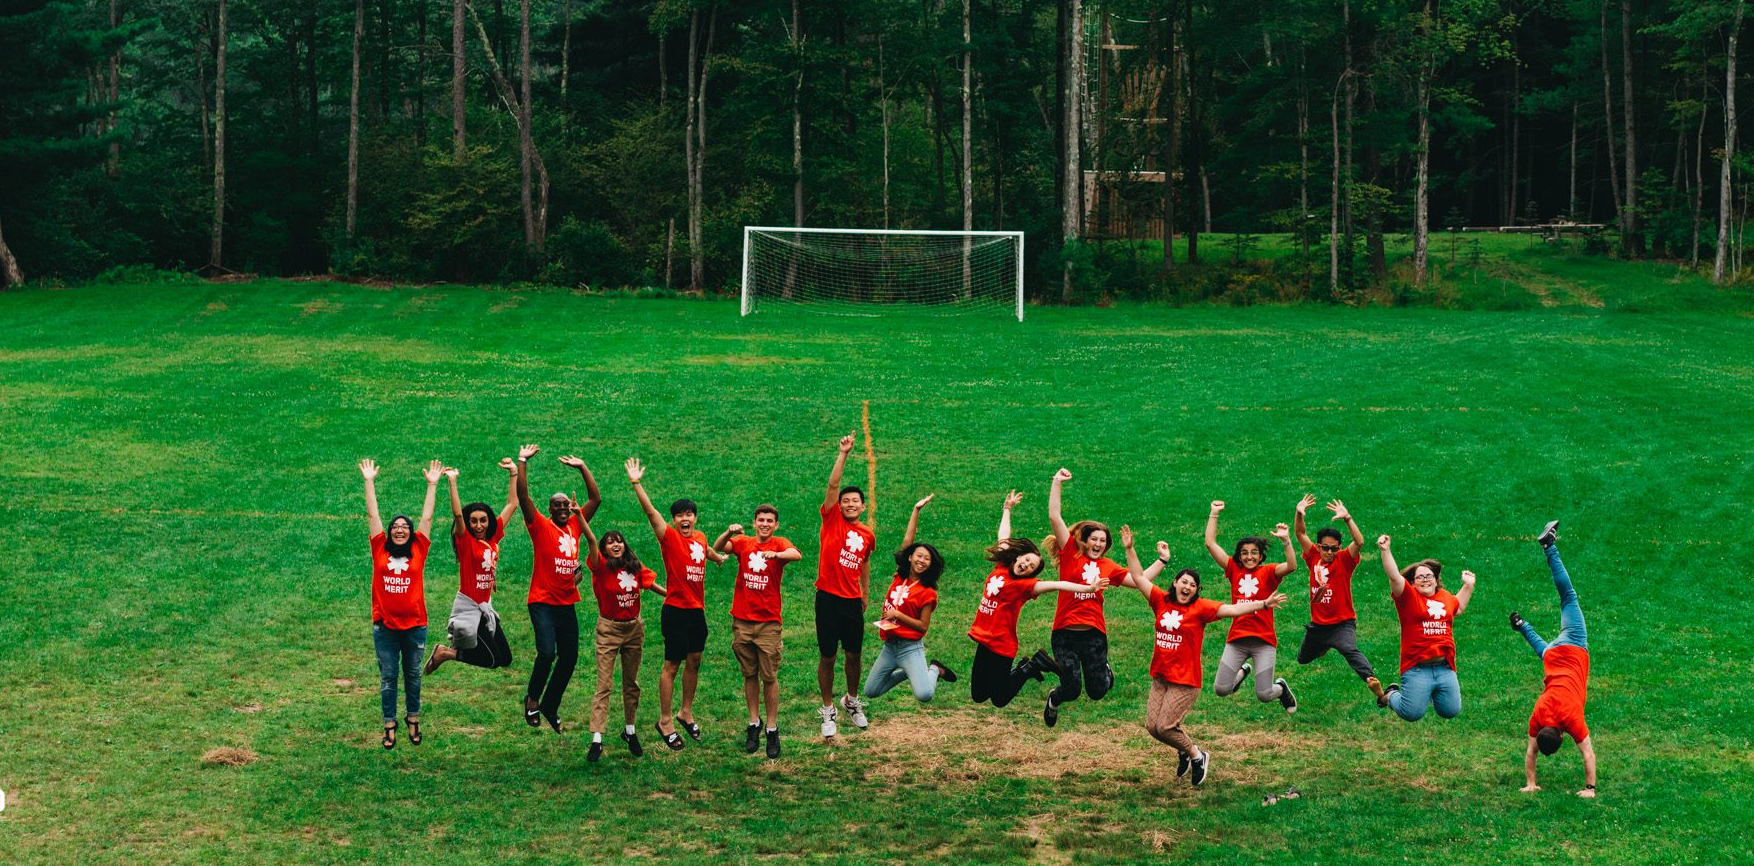
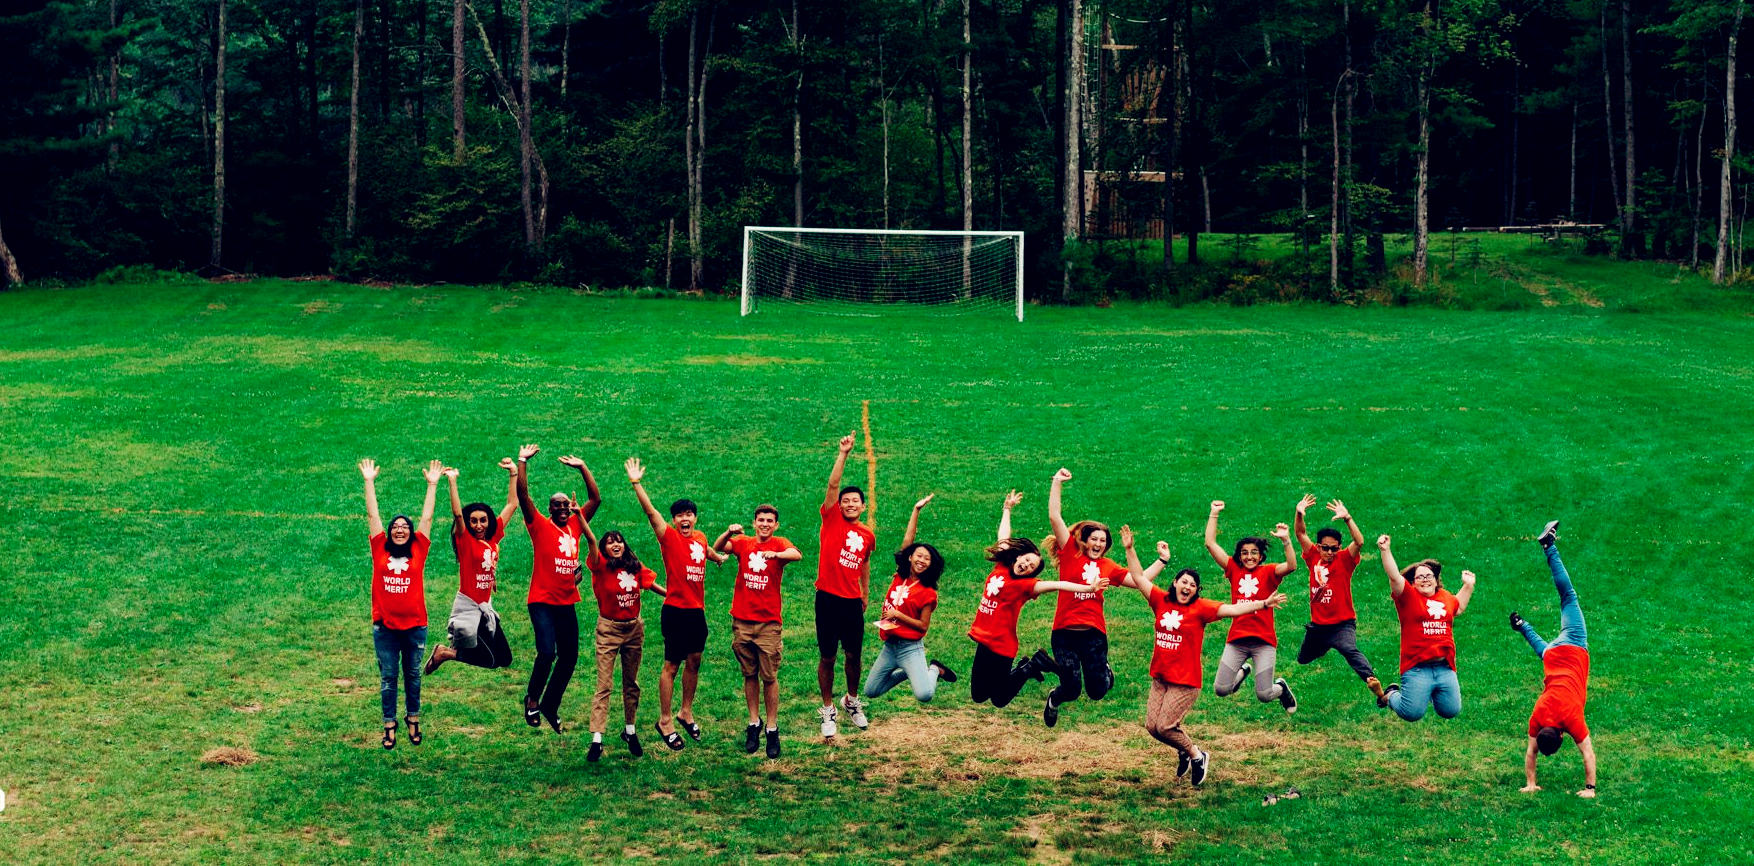
Minor fix

diff --git a/index.html b/index.html
@@ -154,8 +154,8 @@
 
       <div class= "clearfix col-md"></div>
       <div class= "col-md-6">
-        <img src="./images/edinburgh0.png" height = 80px width = auto style= "margin-top:30px">
-        <h4>Undergraduate Student Ambassador - Edinburgh, UK</h4>
+        <img src="./images/edinburgh0.png" height = 80px width = auto style= "margin-top:50px">
+        <h4>Student Ambassador - Edinburgh, UK</h4>
         <p>Ambassadors are the friendly face for the University of Edinburgh. I was the first point of contact for many families and prospective students arriving at the central campus. My role also involved sharing the student experience, human sign posting and helping those who are lost.</p>
       </div>
       <div class = "col-md-6">
@@ -167,7 +167,7 @@
     </div>
 
 
-    <div id = "skills" class="row featurette" style = "padding:50px">
+    <div id = "skills" class="row featurette" style = "padding:50px; margin-top: 30px">
       <h2>Skills</h2>
       <h4>As of 25/09/2016, my language skills are:</h4>
       <div class = "col-sm-6 col-xs-6">
@@ -295,7 +295,7 @@ getting out of a maze using odometry.</p>
       <h3 style = "margin-top: 100px;">Achieved:</h3>
       <div class = "achievement col-sm-12 brands">
         <div class = "col-sm-3 col-xs-6"><img src="./images/doe.jpg" height = 85px width = auto style = "margin-top: 30px"><p>The Duke of Edinburgh's International Award</p></div>
-        <div class = "col-sm-3 col-xs-6"><img src="./images/OfficerTrainingCorp.jpg" height = 85px width = auto style = "margin-top: 30px"><p>Personal and Leadership Development Program</p></div>
+        <div class = "col-sm-3 col-xs-6"><img src="./images/OfficerTrainingCorp.jpg" height = 85px width = auto style = "margin-top: 30px"><p>Personal and Leadership Development Program by OTC</p></div>
         <div class = "col-sm-3 col-xs-6"><img src="./images/edinburgh.png" height = 100px width = auto><p>Principal's Go Abroad Scholarship</p></div>
         <div class = "col-sm-3 col-xs-6"><img src="./images/erasmus.jpg" height = 85px width = auto style = "margin-top: 30px"><p>Erasmus+ Internship in Portugal</p></div>
 
